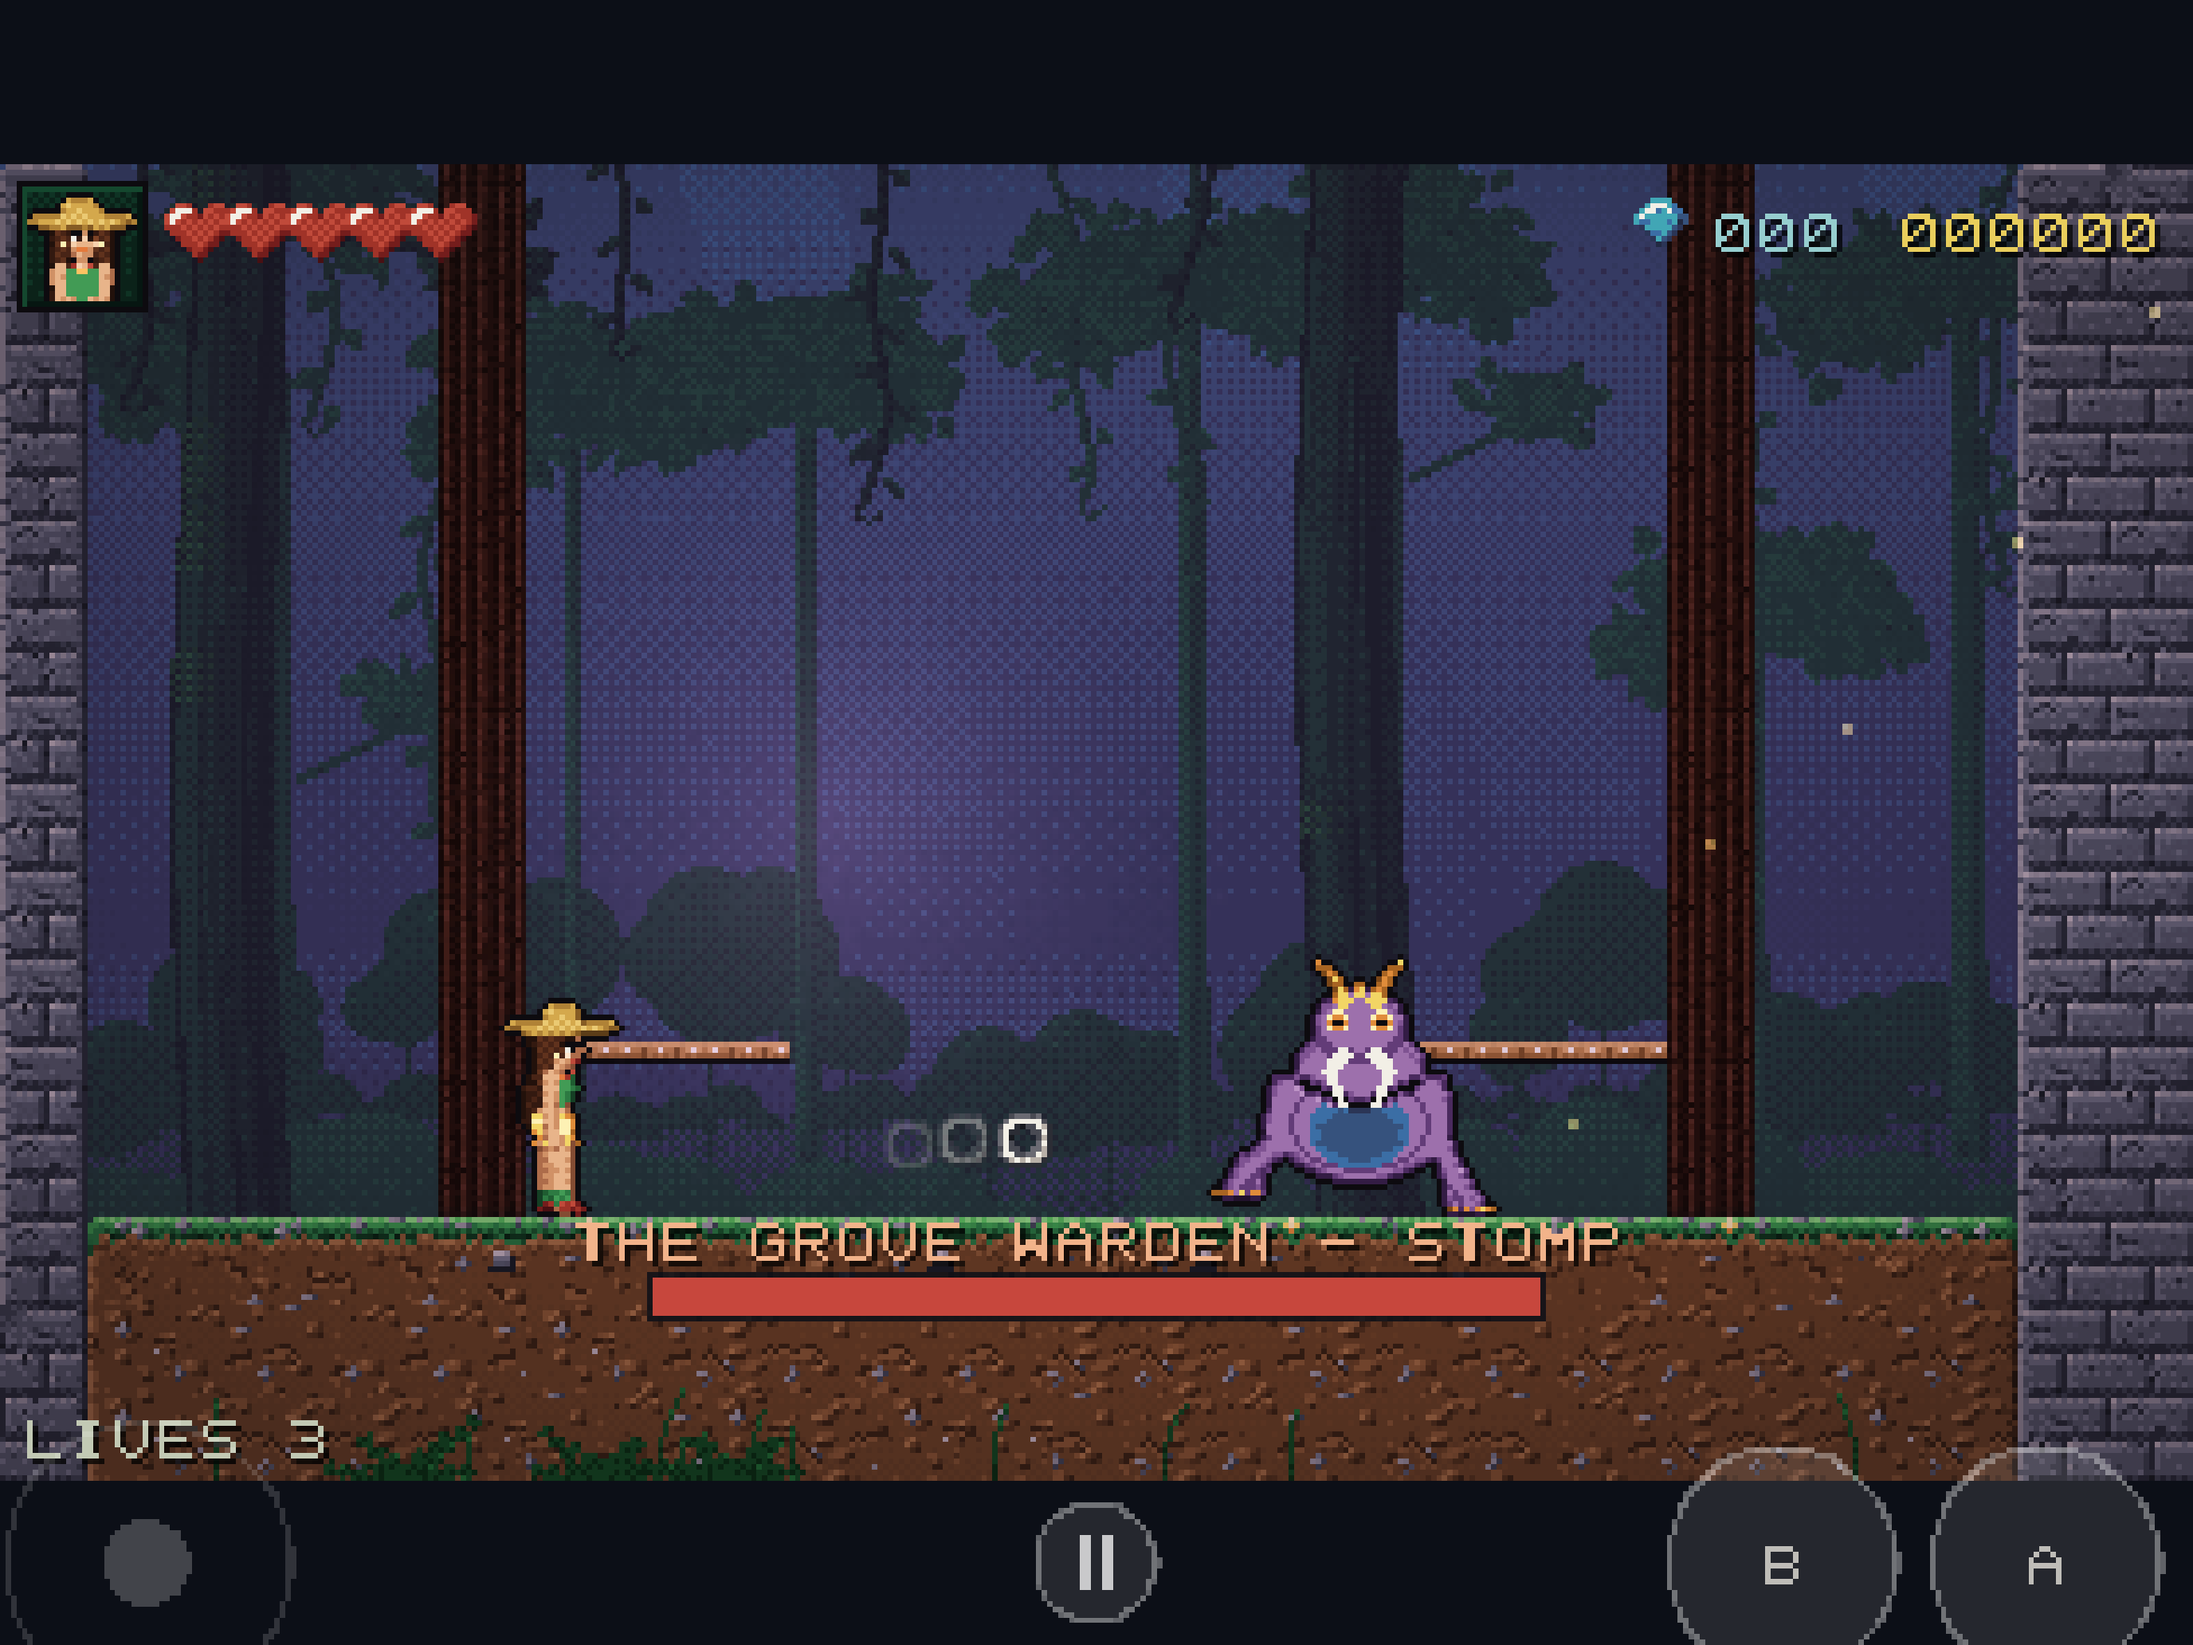
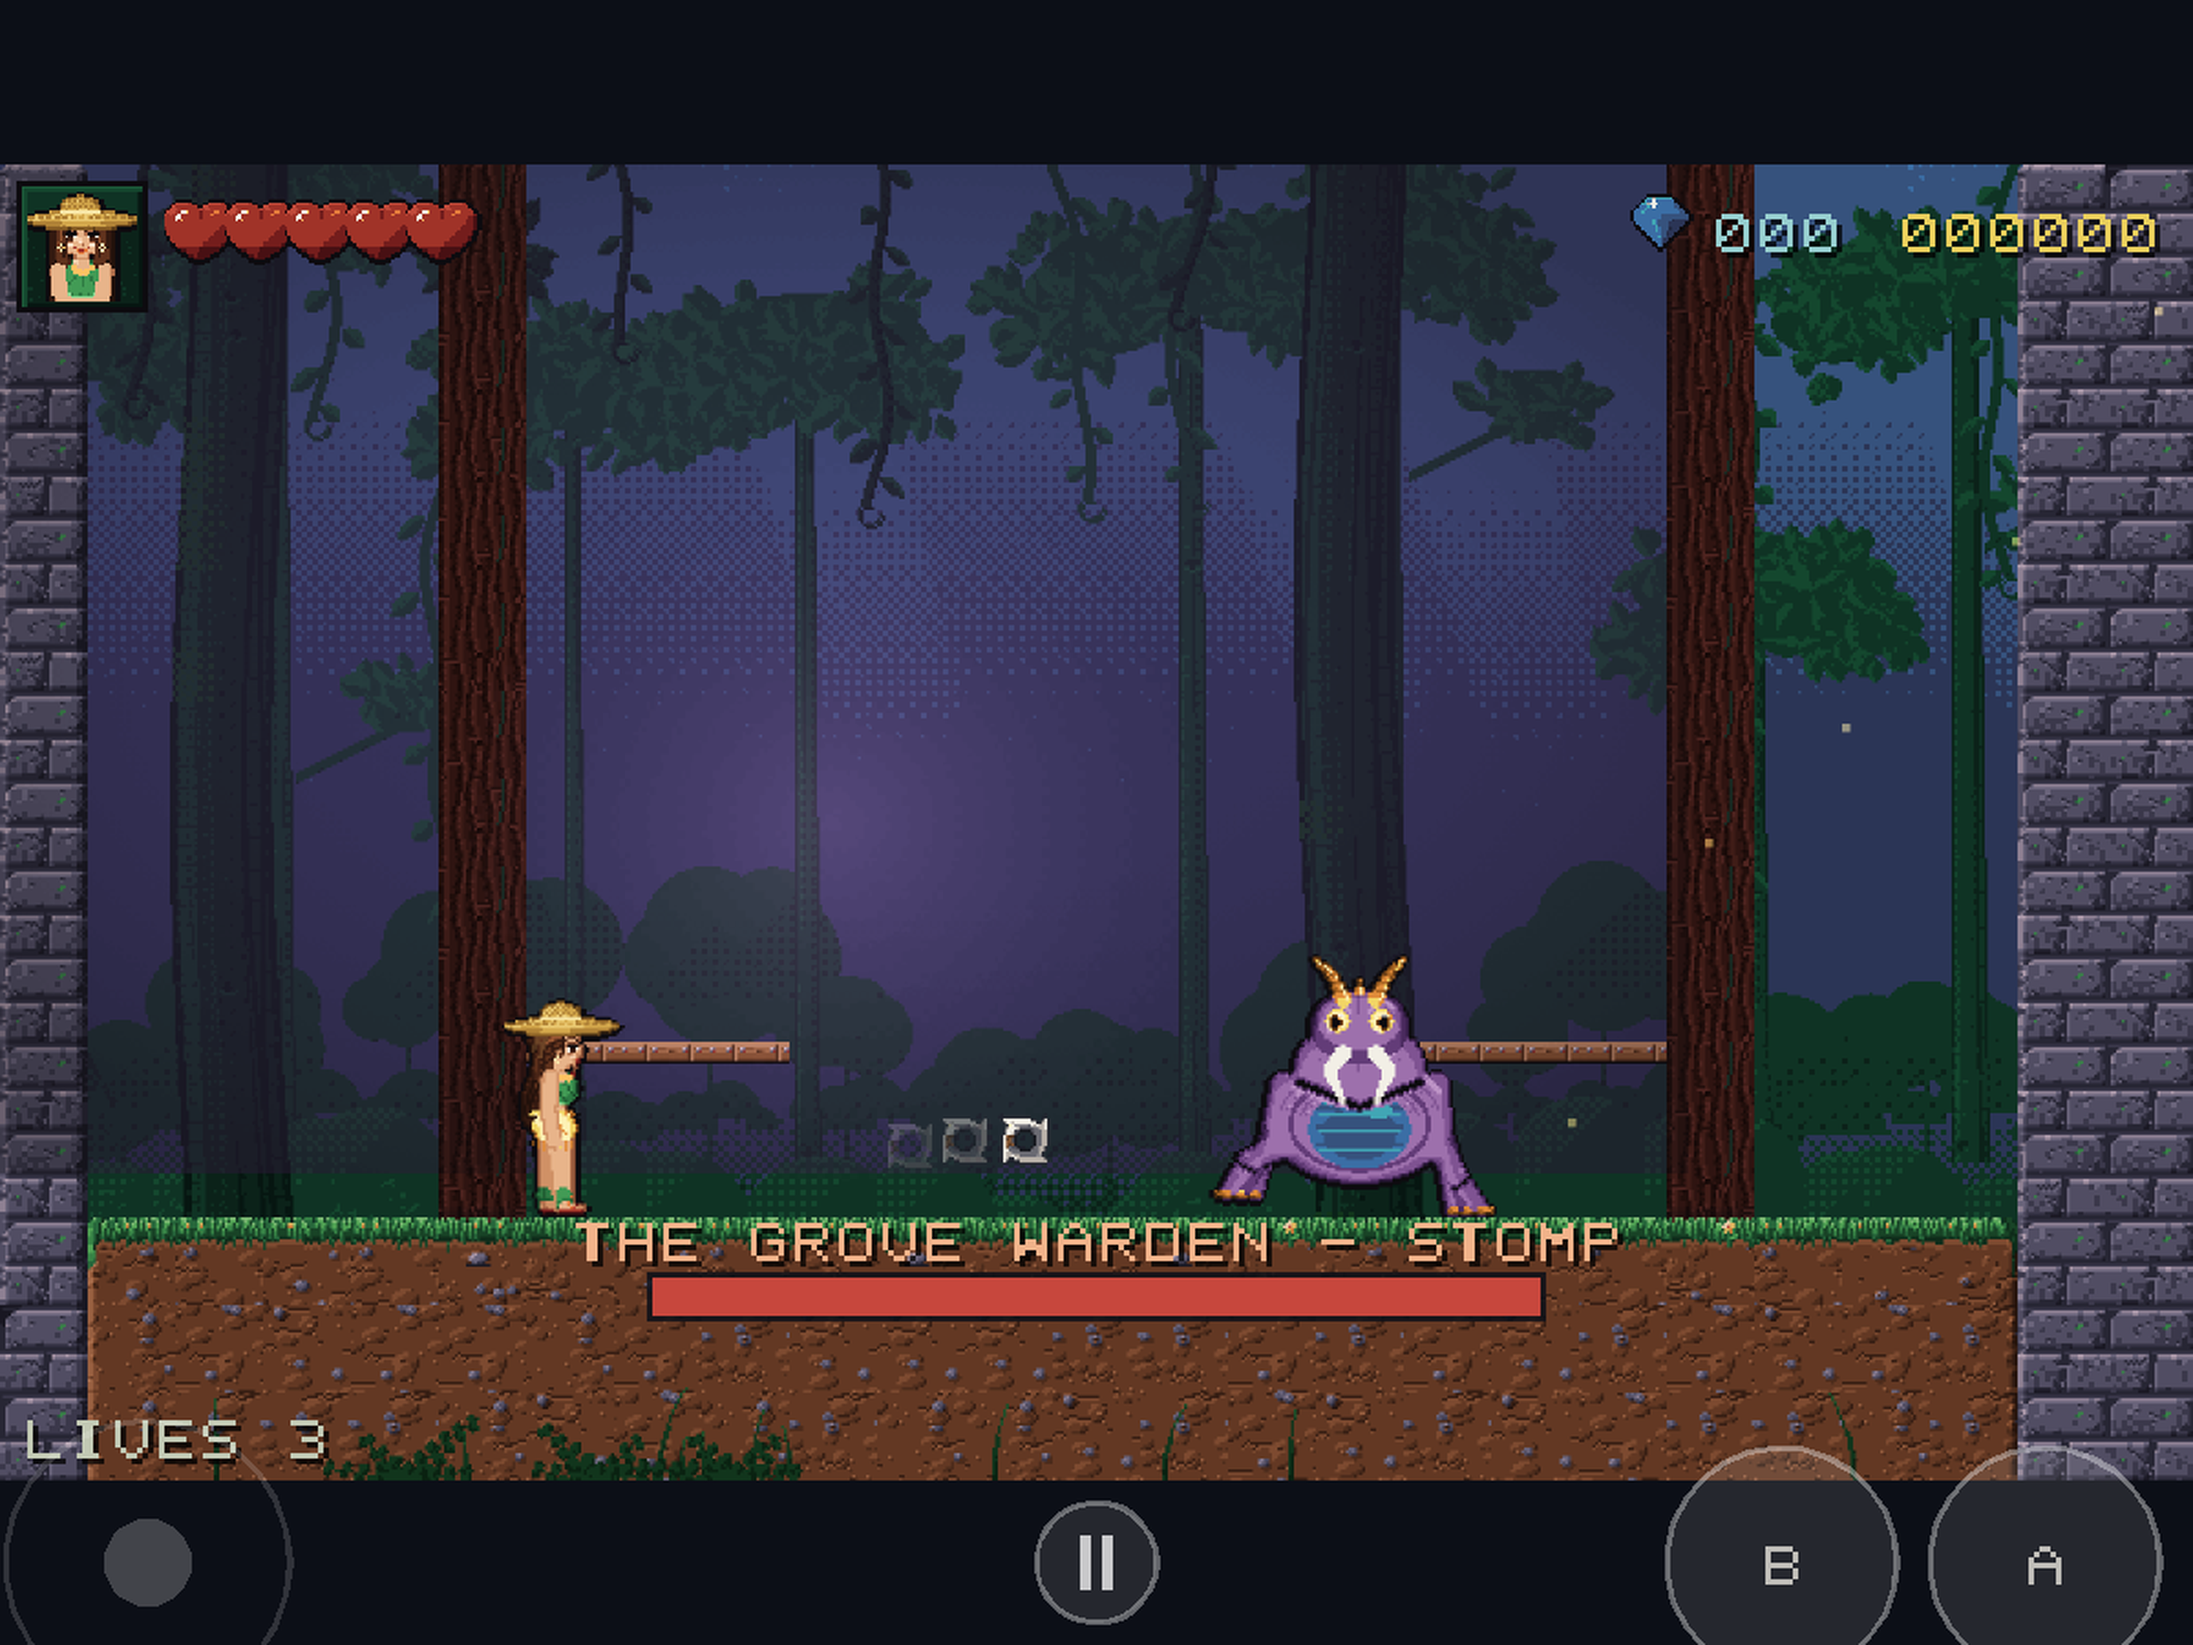
HD pass H2: camera-less scenes (title, victory) shown whole at the art's density; store shots recaptured from larger captures
Claude-Session: https://claude.ai/code/session_015WcgbEBHYkZV6n6ww65axX

diff --git a/tools/gen_store_shots.py b/tools/gen_store_shots.py
@@ -46,7 +46,7 @@ def compose(src_path, size):
     between the capture and Apple's exact pixel size is invisible."""
     src = Image.open(src_path).convert("RGBA")
     scale = size[1] / src.height
-    return src.resize(size, Image.NEAREST), scale
+    return src.resize(size, Image.LANCZOS), scale
 
 
 def main():
